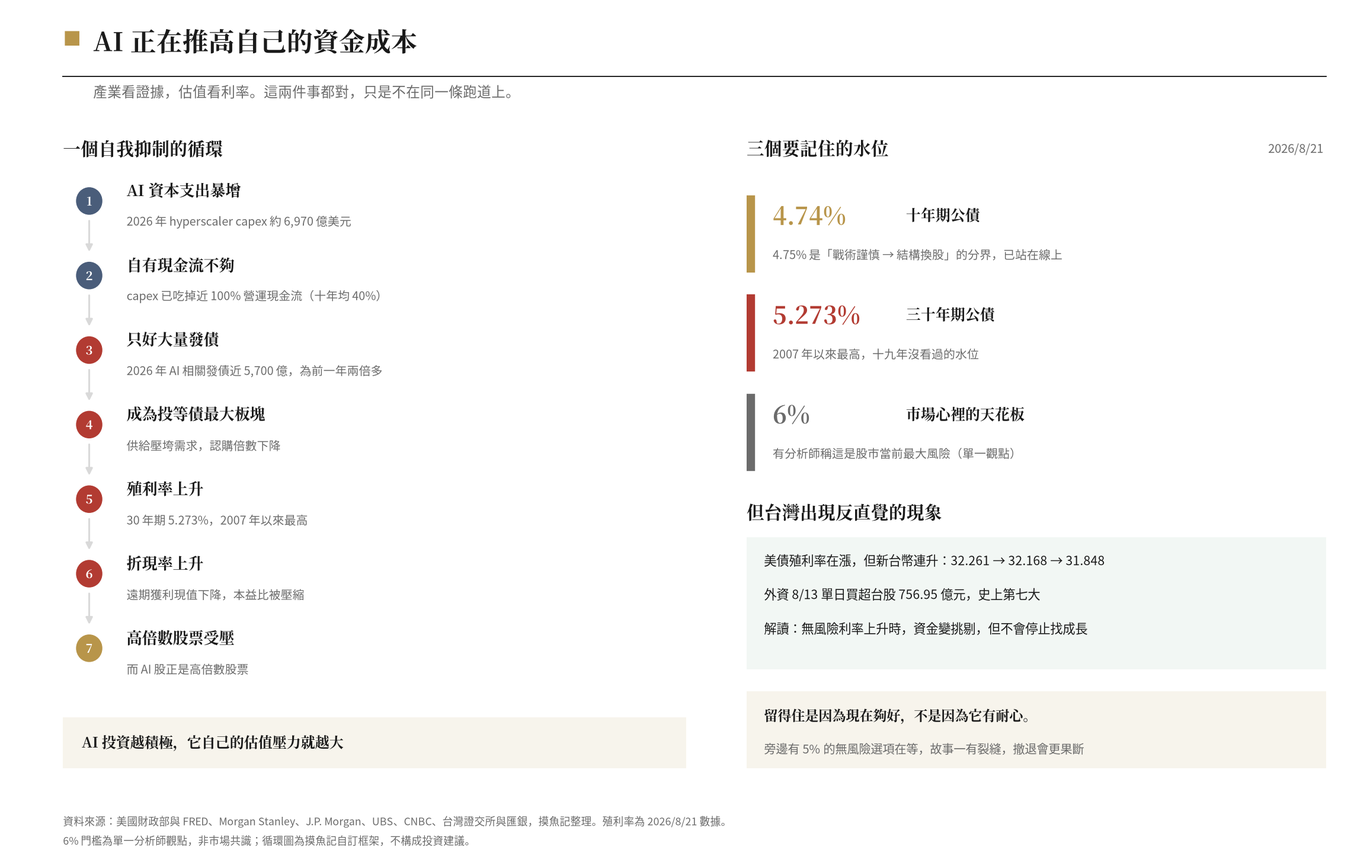
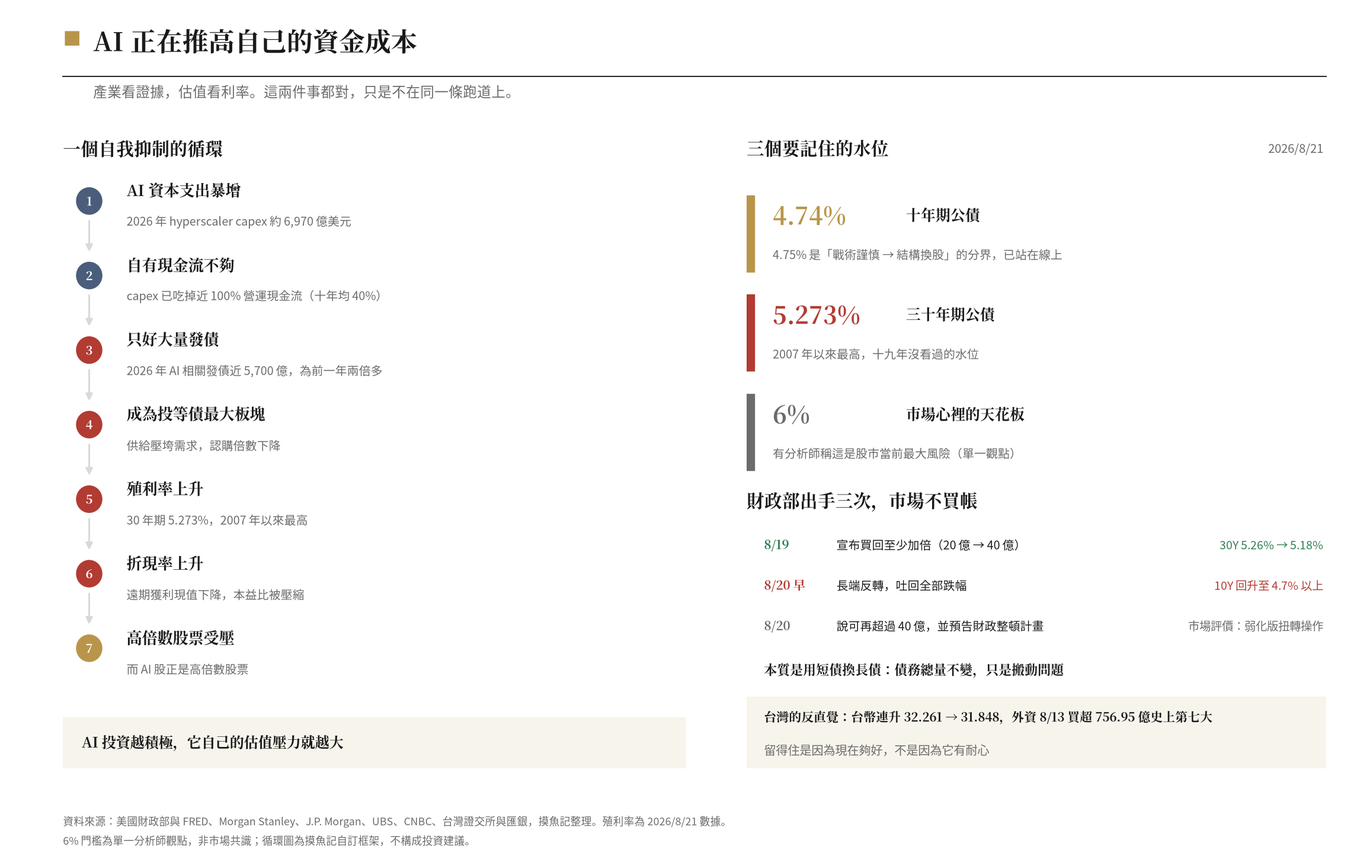
殖利率篇 v2：改用本週 PCE 與輝達財報當引子，新增財政部三次出手一節
依 Jake 指示重寫：
- 開場改用本週兩大事件（8/26 PCE 與輝達財報）當引子，並在第七節回收，
  把宏觀分析落到本週的實際判讀上（PCE 看它對長端的影響；輝達財報看
  capex 指引，因 capex 越積極發債壓力越大、回頭壓估值，好消息帶副作用）
- 新增第五節「財政部出手三次，市場不買帳三次」：
  8/19 宣布買回至少加倍（每次 20 億→至少 40 億、9/9-11/4）→ 30Y 5.26%→5.18%、
  10Y 4.68%→4.63%；8/20 早盤長端反轉吐回全部跌幅、10Y 回升逾 4.7%；
  8/20 Bessent 稱可再超過 40 億上限並預告財政整頓計畫（川普指派其與
  預算主任 Vought 負責，稱週末或下週初公布）
- 點出買回的本質：以發短債資金買回長債，債務總量不變，僅改變期限結構，
  即弱化版扭轉操作（分析師評價），是搬動問題不是解決問題
- 並給讀者判準：看政策有效與否不是看規模，是看有沒有減少債務總量
  或改善財政結構
- 圖同步更新：右欄下半改為財政部三次出手時間軸與市場反應

待 Jake 確認兩事（已列入製作註記）：
1. 輝達財報與 PCE 查證為 8/26，與 Jake 所述「明天」不符
2. 「昨晚財政部又宣布購債」查證最新僅至 8/20，若有新宣布需補為第四次出手

Claude-Session: https://claude.ai/code/session_017fQSiLgrET3Kg63C49rJdr

diff --git a/personal/drafts/gen_YIELD_chart.py b/personal/drafts/gen_YIELD_chart.py
@@ -94,24 +94,28 @@ for i, (num, name, c, desc) in enumerate(levels):
              fontproperties=serif_b, va='center')
     axR.text(0.45, top - 0.90, desc, color=GREY, fontsize=8.4, va='center')
 
-axR.text(0, 4.02, "但台灣出現反直覺的現象", color=INK,
+axR.text(0, 4.18, "財政部出手三次，市場不買帳", color=INK,
          fontsize=12.5, fontproperties=serif_b, va='center')
 
-axR.add_patch(mpatches.Rectangle((0, 1.62), 10, 2.02,
-                                 facecolor=GREEN, alpha=0.06, zorder=0))
-tw_lines = [
-    "美債殖利率在漲，但新台幣連升：32.261 → 32.168 → 31.848",
-    "外資 8/13 單日買超台股 756.95 億元，史上第七大",
-    "解讀：無風險利率上升時，資金變挑剔，但不會停止找成長",
+moves = [
+    ("8/19", "宣布買回至少加倍（20 億 → 40 億）", "30Y 5.26% → 5.18%", GREEN),
+    ("8/20 早", "長端反轉，吐回全部跌幅", "10Y 回升至 4.7% 以上", RED),
+    ("8/20", "說可再超過 40 億，並預告財政整頓計畫", "市場評價：弱化版扭轉操作", GREY),
 ]
-for j, ln in enumerate(tw_lines):
-    axR.text(0.3, 3.28 - j * 0.52, ln, color=INK, fontsize=9, va='center')
+for j, (d, act, react, c) in enumerate(moves):
+    y = 3.52 - j * 0.62
+    axR.text(0.3, y, d, color=c, fontsize=8.8, fontproperties=serif_b, va='center')
+    axR.text(1.55, y, act, color=INK, fontsize=8.4, va='center')
+    axR.text(9.95, y, react, color=c, fontsize=8.2, va='center', ha='right')
 
-axR.add_patch(mpatches.Rectangle((0, 0.10), 10, 1.18,
+axR.text(0.3, 1.60, "本質是用短債換長債：債務總量不變，只是搬動問題",
+         color=INK, fontsize=9.2, fontproperties=serif_b, va='center')
+
+axR.add_patch(mpatches.Rectangle((0, 0.10), 10, 1.10,
                                  facecolor=GOLD, alpha=0.10, zorder=0))
-axR.text(0.3, 0.90, "留得住是因為現在夠好，不是因為它有耐心。",
-         color=INK, fontsize=9.8, fontproperties=serif_b, va='center')
-axR.text(0.3, 0.40, "旁邊有 5% 的無風險選項在等，故事一有裂縫，撤退會更果斷",
+axR.text(0.3, 0.88, "台灣的反直覺：台幣連升 32.261 → 31.848，外資 8/13 買超 756.95 億史上第七大",
+         color=INK, fontsize=8.8, fontproperties=serif_b, va='center')
+axR.text(0.3, 0.38, "留得住是因為現在夠好，不是因為它有耐心",
          color=GREY, fontsize=8.6, va='center')
 
 fig.text(0.046, 0.062,

diff --git a/personal/drafts/2026-YIELD_treasury-anchor-draft.md b/personal/drafts/2026-YIELD_treasury-anchor-draft.md
@@ -1,10 +1,16 @@
-# 為什麼需求這麼強，股票還是一直被殺？答案在債市
+# 這週最重要的數字，不是輝達的財報
 
-> 摸魚記｜宏觀基礎篇（建議 2026-08-24 晚或 8/25 發佈）
-> 主軸：殖利率是什麼、為什麼現在重要、AI 發債的自我抑制循環、台股台幣連動
-> 圖：建議 `YIELD-chart-loop.png`（左：AI 發債的自我抑制循環／右：關鍵水位與台股台幣連動）
+> 摸魚記｜宏觀基礎篇 v2（建議 2026-08-24 晚或 8/25 發佈，需趕在 8/26 PCE 與輝達財報前）
+> v2 更新：開場改用本週兩大事件當引子；新增第六節「財政部出手三次，市場不買帳」
+> 圖：`YIELD-chart-loop.png`（左：AI 發債的自我抑制循環／右：關鍵水位與台股台幣連動）
 
 ---
+
+這週很精彩。
+
+週三晚上先是七月的 PCE 物價指數，那是聯準會最看重的通膨指標；同一天美股盤後，輝達要公布財報。一個決定利率的方向，一個決定 AI 這條敘事還撐不撐得住。
+
+大家應該都在等這兩個。但我想先講一件更底層、而且已經在發生的事，因為它會決定你怎麼解讀那兩份數據。
 
 上週有讀者問了一個很好的問題：「合約價創新高、財報營收年增三位數、缺貨缺到大廠去遊說政府，這些不是都很好嗎？為什麼股票還是一直被殺？」
 
@@ -12,13 +18,11 @@
 
 〔訂閱框放這裡〕
 
-上上週我在開場提過一次公債被拋售、殖利率往上走的事，當時只用括號簡單帶過。這篇想把它講完整，因為這件事已經大到不能只當背景音了。
-
-也歡迎任何 feedback 討論。
+上上週我在開場提過一次公債被拋售、殖利率往上走，當時只用括號簡單帶過。這篇想把它講完整，因為這件事已經大到不能只當背景音了。也歡迎任何 feedback 討論。
 
 ## 一、先用最白話的方式講殖利率
 
-如果你已經懂可以直接跳到第二節。
+已經懂的可以直接跳到第二節。
 
 **債券的價格和殖利率是反向的。** 這是最容易搞混的地方，但道理很簡單：一張債券每年固定配你 5 元，如果你用 100 元買，報酬率就是 5%；如果沒人要，價格跌到 80 元，那還是配你 5 元，報酬率就變成 6.25%。**價格跌，殖利率就升。**
 
@@ -34,39 +38,33 @@
 
 而且這件事對不同股票的傷害不一樣。**獲利在越遠的未來，被折現得越兇。** 一家今年就賺錢的公司，跟一家要 2030 年才賺大錢的公司，同樣的折現率上升，後者的估值會掉得多很多。
 
-所以每次殖利率跳升，你會發現最先倒下的永遠是高估值成長股。而 AI 和記憶體這一輪，剛好就是估值被拉得最滿的那一群。
+所以每次殖利率跳升，最先倒下的永遠是高估值成長股。而 AI 和記憶體這一輪，剛好就是估值被拉得最滿的那一群。
 
-## 二、現在的水位，以及三個要記住的數字
+## 二、現在的水位，三個要記住的數字
 
 截至八月二十一日：
 
-**十年期公債殖利率 4.74%。** 分析圈普遍把 **4.75%** 當成一個分界線，過了它，資金的行為會從「戰術性謹慎」變成「結構性換股」。也就是說，不是短線調節，是真的換一批東西買。
+**十年期公債殖利率 4.74%。** 分析圈普遍把 **4.75%** 當成一個分界線，過了它，資金的行為會從「戰術性謹慎」變成「結構性換股」。不是短線調節，是真的換一批東西買。
 
-**三十年期公債殖利率 5.273%。** 這是 **2007 年以來的最高點**，比金融海嘯還早，等於十九年沒看過的水位。
+**三十年期公債殖利率 5.273%。** 這是 **2007 年以來的最高點**，比金融海嘯還早，等於十九年沒看過的水位。它在八月十七日還一度摸到 5.31%。
 
 **還有一個門檻是 6%。** 有分析師直接說，六趴的殖利率會是股市目前最大的風險。這是單一觀點不是共識，但它標出了市場心裡的天花板在哪。
 
-一句話總結這一節：**十年期已經站在門檻上，三十年期已經跨過去了。**
+一句話：**十年期已經站在門檻上，三十年期已經跨過去了。**
 
 ## 三、為什麼漲？四個原因，第一個跟我們的持股直接相關
 
-**第一，AI 公司在瘋狂發債。** 這條後面單獨講，因為它是這篇的重點。
+**第一，AI 公司在瘋狂發債。** 這條下一節單獨講。
 
 **第二，聯邦赤字。** 政府要借的錢越來越多，債券供給越來越大。有外電的標題下得很傳神：**AI 支出與赤字正面相撞。**
 
-**第三，通膨疑慮還沒解除。** 美伊在波斯灣封鎖油輪推升能源價格，通膨會不會失錨，市場心裡沒底。
+**第三，通膨疑慮還沒解除。** 美伊在波斯灣封鎖油輪推升能源價格，通膨會不會失錨，市場心裡沒底。這也是為什麼週三的 PCE 值得看。
 
 **第四，聯準會主席 Warsh 暗示，升息可能不是他對抗通膨的首選工具。** 這句話的意思是：如果通膨真的回來，Fed 不一定會用最直接的方式壓它。市場聽懂之後，對長期通膨的擔憂就反映到長天期殖利率上。
-
-還有一件事值得記住：財政部已經出手過了。它宣布從九月九日到十一月四日，至少加倍公債買回的規模。但市場只反應了一天，隔天殖利率又走高。
-
-**政策工具被用出來、而且沒用，這件事本身就是訊號。**
 
 ## 四、核心：AI 正在推高自己的資金成本
 
 這是我認為最少人講、但最該講的一段。
-
-先看幾個數字。
 
 摩根大通估 2026 年 hyperscaler 的資本支出會達到 **6,970 億美元**。而 UBS 的估計是，這些資本支出**已經吃掉它們接近百分之百的營運現金流**，對照過去十年的平均只有 40%。
 
@@ -88,7 +86,29 @@
 
 **因為需求的資金來源本身，正在推高所有人的資金成本。** 這件事跟合約價漲不漲、缺不缺貨完全無關，它是另一條賽道上的事，但它會決定市場願意用幾倍本益比買這些公司。
 
-## 五、那台灣呢？一個反直覺的現象
+## 五、財政部出手三次，市場不買帳三次
+
+上週的重頭戲其實不在股市，在債市。這段值得仔細看，因為它示範了一件事：**當市場不相信你的時候，工具本身沒有用。**
+
+**第一次，八月十九日。** 財政部宣布把長天期公債的買回規模「至少加倍」，從每次上限 20 億美元提高到至少 40 億，九月九日到十一月四日生效。
+
+市場立刻反應：三十年期殖利率從 5.26% 急跌到 5.18%，十年期從 4.68% 掉到 4.63%。看起來有效。
+
+**第二次，八月二十日早上，效果就沒了。** 十年期又爬回 4.7% 以上，把前一天的跌幅整個吐掉。財政部長 Bessent 當天出面說，買回規模可以超過昨天宣布的 40 億上限，但沒有給具體數字，只說看市場狀況。
+
+**第三次，同一天他還預告了一個新的財政整頓計畫**，說大概週末或下週初會公布，總統已經指派他和預算主任一起負責。
+
+三次出手，殖利率最後還是回到接近原點。
+
+**為什麼沒用？** 因為買回這件事的本質，是「**用短債換長債**」。財政部拿錢去買回長天期債券，那筆錢從哪來？發短天期債券。所以整體債務並沒有變少，只是把還款的時間往前挪，壓低長端的殖利率。
+
+這在教科書上叫扭轉操作的變體。有分析師講得很直白：**稍微大一點的買回計畫，等於一個弱化版的扭轉操作，本身不會有持久的影響。**
+
+換句話說，**這不是在解決問題，是在搬動問題。** 而市場只花一天就看穿了。
+
+這一節想說的是：如果你在看接下來的政策消息，判斷有沒有效的標準不是「規模多大」，而是「**它有沒有減少債務總量或改善財政結構**」。前者是止痛藥，後者才是治療。Bessent 預告的那個財政整頓計畫，如果內容是後者，那才值得認真看待。
+
+## 六、那台灣呢？一個反直覺的現象
 
 照理說，美國無風險利率上升，資金應該從新興市場往回流。但八月的台灣不是這樣。
 
@@ -100,35 +120,33 @@
 
 但同一件事要反過來讀一次，這是風險：**機會成本變高之後，資金離開的速度也會更快。** 以前成長故事鬆動，資金可能還會觀望；現在旁邊有 5% 的無風險選項在等，一旦故事出現裂縫，撤退會比過去果斷。
 
-**留得住是因為現在夠好，不是因為它有耐心。** 這是我認為台股投資人現在最該理解的一句話。
+**留得住是因為現在夠好，不是因為它有耐心。**
 
-## 六、所以，這件事該怎麼放進判斷裡
+## 七、所以，週三那兩份數據該怎麼看
 
-**第一，殖利率不會進我的 indicator 清單，但會影響我的部位大小。**
+繞了一圈，回到開頭。
 
-我盯的離場訊號一直是那幾條：DRAM 合約價轉跌、雲端業者資本支出指引下修、HBM 排擠效應鬆動。殖利率不在裡面，因為**它不改變需求，它改變的是價格**。合約價不會因為三十年期公債漲到 5.3% 就下跌。
+**PCE 要看的不是數字本身，是它對長天期殖利率的影響。** 如果通膨繼續降溫，長端的壓力會鬆一點，那對高倍數股票是實質的解壓；如果又燙起來，那三十年期往 6% 走的劇本就要認真對待了。
 
-但它會改變我願意用多大的部位去承受波動。同樣看好一個產業，在無風險利率 3% 和 5% 的環境裡，合理的部位大小是不一樣的。
+**輝達的財報要看的也不只是營收。** 我會特別看資本支出的說法，還有客戶的融資結構。因為照上面那個循環，**capex 指引越積極，發債壓力越大，回頭壓在估值上的力道也越大**。這是這一輪很矛盾的地方：好消息本身帶著副作用。
 
-**第二，它解釋了為什麼「好消息不漲」會變成常態。**
+至於我自己怎麼處理這件事，三句話：
 
-如果你發現最近利多出來股價沒反應、利空出來卻跌得很兇，那不一定是你的產業判斷錯了，可能只是**折現率在幫市場打折**。理解這一點，至少可以讓你不要在錯的地方懷疑自己的論點。
+**第一，殖利率不會進我的 indicator 清單，但會影響我的部位大小。** 我盯的離場訊號一直是那幾條：DRAM 合約價轉跌、雲端資本支出指引下修、HBM 排擠效應鬆動。殖利率不在裡面，因為**它不改變需求，它改變的是價格**。合約價不會因為三十年期漲到 5.3% 就下跌。但同樣看好一個產業，在無風險利率 3% 和 5% 的環境裡，合理的部位大小是不一樣的。
 
-**第三，真正要盯的是那個循環會不會鬆。**
+**第二，它解釋了為什麼「好消息不漲」會變成常態。** 如果你發現最近利多出來股價沒反應、利空出來卻跌得很兇，那不一定是你的產業判斷錯了，可能只是**折現率在幫市場打折**。理解這一點，至少可以讓你不要在錯的地方懷疑自己的論點。
 
-有兩個方向：一是雲端業者的資本支出如果開始收斂，發債壓力會下降，殖利率的上行壓力也會跟著減；二是如果通膨真的降下來，長天期殖利率自然會回落。**這兩件事任一發生，對高估值成長股都是實質的解壓。**
+**第三，真正要盯的是那個循環會不會鬆。** 兩個方向：雲端資本支出如果開始收斂，發債壓力會下降；或者通膨真的降下來，長端自然回落。**這兩件事任一發生，對高估值成長股都是實質的解壓。** 反過來，如果十年期站穩 5%、三十年期往 6% 走，那就不只是估值打折，而是整個資產配置的邏輯要重算。
 
-反過來，如果十年期站穩 5%、三十年期往 6% 走，那就不只是估值打折的問題，而是整個資產配置的邏輯要重算。
+## 八、最後
 
-## 七、最後
-
-這幾週我們花了很多篇幅在講合約價、在講長約、在講誰站在哪一層瓶頸上。那些都還算數，需求的證據到現在也沒有翻轉。
+這幾週我們花了很多篇幅在講合約價、長約、誰站在哪一層瓶頸上。那些都還算數，需求的證據到現在也沒有翻轉。
 
 但這篇想補上的是另一半：**產業的好壞決定一家公司賺多少，資金的價格決定市場願意用幾倍去買它。** 兩件事都對，只是它們不在同一條跑道上。
 
 殖利率就是那條你平常看不到、但一直在替所有資產定價的線。它現在正在往上移，而且移到了十九年沒去過的地方。
 
-所以我們就繼續且戰且走，然後多記一件事：**產業看證據，估值看利率。**
+所以週三那兩份數據出來的時候，我們可以多問一句：它讓那條線往上，還是往下？
 
 祝大家都上班摸魚炒股賺大錢。
 
@@ -141,61 +159,54 @@
 
 ## 〔草稿製作註記，發佈前刪除〕
 
-### 發佈前必補與確認
+### ⚠ 發佈前必須確認的兩件事
 
-1. **今日（8/24）台股與美股數據**：本稿最新數據為 8/21，若要在開場或第五節補一句本週位置請提供。
-2. **殖利率最新值**：本稿為 8/21 收盤（10Y 4.74%、30Y 5.273%），發文前建議確認是否已明顯變動。
-3. **6% 門檻為單一分析師觀點**，正文已明寫「這是單一觀點不是共識」。
-4. 部位揭露依規則 38 處理：本稿未提個股，僅談部位大小的原則。
-5. 刪本段製作註記，訂閱框放開場對話後。
+1. **輝達財報與 PCE 的日期**：本稿依查證寫為**兩者皆在 8/26（週三）**。PCE 為美東 8/26 08:30（台北 8/26 晚間），輝達為美股 8/26 盤後（台北 8/27 凌晨）。**Jake 原訊息說「明天有 NVDA 財報」，若以 8/24 發文則為 8/25，與查證結果不符，請以官方 IR 為準後再定稿。** 若日期需改，第一段與第七節標題都要同步調整。
+2. **「昨晚財政部又宣布購債」的出處**：本稿查證到的最新時間點為 **8/20 Bessent 表示買回可超過 40 億上限、並預告財政整頓計畫（川普指派他與預算主任 Vought 負責，稱週末或下週初公布）**。**8/23–24 若另有新宣布，請提供出處，我再補入第五節作為「第四次出手」。**
+
+### 其他發佈前補充
+
+3. **殖利率最新值**：本稿為 8/21（10Y 4.74%、30Y 5.273%），發文前建議確認是否已明顯變動。
+4. **今日（8/24）台股收盤**：本稿未使用，要補一句本週位置請提供。
+5. 6% 門檻為單一分析師觀點，正文已明寫。
+6. 部位揭露依規則 38 處理：本稿未提個股，僅談部位大小原則。
+7. 刪本段製作註記，訂閱框放開場對話後。
+
+### v2 修改摘要
+
+- 開場改用本週兩大事件（PCE、輝達財報）當引子，並在第七節回收，形成前後呼應
+- **新增第五節「財政部出手三次，市場不買帳三次」**，含三次時間軸、買回的本質（用短債換長債＝弱化版扭轉操作）、以及判斷政策有效與否的標準（有沒有減少債務總量或改善財政結構）
+- 原第六節（觀點與操作）改為第七節，並與 PCE／輝達財報綁定，讓宏觀分析落到本週的實際判讀上
 
 ### 數據來源對帳
 
-**殖利率水位（2026/8/21）**
-- 10 年期 4.74%；30 年期 5.273%，為 2007 年以來最高（約 19 年新高）
-- 4.75%（10Y）被視為「戰術性謹慎轉為結構性輪動」門檻；30Y 5.28% 威脅高倍數科技股估值
-- 有分析師稱 6% 殖利率是股市當前最大風險（單一觀點）
+**殖利率（2026/8/21）**：10Y 4.74%；30Y 5.273%，2007 年以來最高（8/17 曾摸 5.31%）。4.75%（10Y）為「戰術謹慎→結構換股」門檻；6% 為單一分析師觀點
 
-**上升原因**
-- AI 公司發債與聯邦赤字支出上升，長天期殖利率自 7 月起飆升（標題：AI 支出與赤字相撞）
-- 美伊波斯灣封鎖油輪推升能源價格，加劇通膨失錨疑慮
-- Fed 主席 Warsh 暗示升息可能不是他對抗通膨的首選工具
-- 財政部宣布 9/9–11/4 至少加倍公債買回，但交易迅速反轉、殖利率隔日再走高
+**財政部三次出手**
+- 8/19：宣布長天期買回規模至少加倍，每次上限自 20 億美元提高至至少 40 億，涵蓋 10Y–30Y，9/9 至 11/4 生效。市場反應：30Y 自 5.26% 跌至 5.18%、10Y 自 4.68% 跌至 4.63%
+- 8/20 早盤：長端反轉，10Y 回升至 4.7% 以上，吐回前日跌幅
+- 8/20：Bessent 表示買回可超過 40 億上限，未給具體數字；並預告財政整頓計畫，稱週末或下週初公布，川普指派他與預算主任 Vought 負責
+- 市場評價：分析師稱「稍大的買回等於弱化版扭轉操作，本身不會有持久影響」
+- 買回本質：以發行短債資金買回長債，債務總量不變，僅改變期限結構
 
-**AI 發債規模**
-- 2026 年全球 AI 相關發債預估近 5,700 億美元，為 2025 年兩倍多（摩根士丹利 2026/6）
-- 五大 hyperscaler：2025 年發行 1,210 億美元公司債，2020–2024 年均僅 280 億，2026 年至年中已 1,590 億
-- AI 相關債務已是投資等級市場最大板塊，其供給影響基準利差；hyperscaler 債券認購倍數下降
-- 摩根大通估 2026 hyperscaler capex 達 6,970 億美元
-- UBS 估 hyperscaler capex 今年消耗接近 100% 營運現金流，十年平均為 40%
-- 摩根士丹利估至 2028 年前資料中心 capex 與自有現金流間有 1.5 兆美元融資缺口
+**AI 發債**：2026 全球 AI 相關發債預估近 5,700 億美元（前一年兩倍多，摩根士丹利 2026/6）；五大 hyperscaler 2025 發行 1,210 億、2020–2024 年均 280 億、2026 至年中已 1,590 億；AI 債為投資等級市場最大板塊，認購倍數下降；J.P. Morgan 估 2026 hyperscaler capex 6,970 億；UBS 估 capex 消耗近 100% 營運現金流（十年均 40%）；Morgan Stanley 估至 2028 年有 1.5 兆美元融資缺口
 
-**折現率機制**
-- 成長股估值依賴未來現金流，折現率上升使遠期獲利現值大幅下降，壓縮本益比
-- 科技股受害最深；借貸成本上升同時墊高 hyperscaler capex 融資成本
+**上升原因**：AI 發債與聯邦赤字（外電標題「AI 支出與赤字相撞」）、美伊封鎖油輪推升能源價格、Fed 主席 Warsh 暗示升息非對抗通膨首選工具
 
-**台幣與外資**
-- 8/6 收 32.261 元（升 5.4 分，逾半個月新高）
-- 8/13 收 32.168 元（逾一個月高點）；外資單日買超台股 756.95 億元，史上第七大
-- 8/21（週五）收 31.848 元，升 7.7 分，連三升；外資買超上市股 28.3 億元
-- 7 月 CPI 年增 3.4% 符合預期，冷卻九月升息預期，支撐美台股市
+**折現率機制**：成長股估值依賴未來現金流，折現率上升使遠期獲利現值大幅下降、壓縮本益比；科技股受害最深；借貸成本上升同時墊高 hyperscaler capex 融資成本
+
+**台幣與外資**：8/6 收 32.261（升 5.4 分）、8/13 收 32.168、8/21 收 31.848（升 7.7 分，連三升）；外資 8/13 單日買超台股 756.95 億元，史上第七大
+
+**本週事件**：PCE（7 月）8/26 美東 08:30；輝達財報 8/26 美股盤後
 
 ### 主標候選（依推薦排序）
 
-1. `為什麼需求這麼強，股票還是一直被殺？答案在債市`（現用，直接回答讀者困惑）
-2. `AI 正在推高自己的資金成本`（最反直覺，一句話講完核心）
-3. `無風險的錢都能賺 5%，那你憑什麼買 60 倍本益比？`（最口語）
-4. `30 年期殖利率創 19 年新高，這對你的持股是什麼意思`（最實用）
-5. `所有資產的定價錨，正在往上移`（最精準但偏冷）
+1. `這週最重要的數字，不是輝達的財報`（現用，最有懸念且呼應本週節奏）
+2. `為什麼需求這麼強，股票還是一直被殺？答案在債市`
+3. `AI 正在推高自己的資金成本`（最反直覺）
+4. `財政部出手三次，市場不買帳三次`（從政策失效切入）
+5. `無風險的錢都能賺 5%，那你憑什麼買 60 倍本益比？`（最口語）
 
-### 與前幾篇的分工
+### 圖表
 
-- 8/7 瓶頸分層、8/11 出場紀律、8/18 中國記憶體與 NBM：**皆為產業層**
-- **本篇為宏觀層**，補上「產業看證據，估值看利率」的另一半。四層瓶頸不重述，僅在第六節帶一句離場訊號清單
-
-### 圖表建議
-
-`YIELD-chart-loop.png`
-- 左：AI 發債的自我抑制循環（capex 6,970 億 → 現金流用盡 → 發債 5,700 億 → 成為 IG 最大板塊 → 殖利率上升 → 折現率上升 → 高倍數股受壓 → 回到起點），用箭頭串成環形或直線
-- 右：三個關鍵水位（10Y 4.74%／30Y 5.273%／6% 門檻）＋台幣與外資的反直覺現象（台幣 32.261→31.848 連升、外資 8/13 買超 756.95 億史上第七大）
-- 圖下小字：6% 為單一分析師觀點；殖利率為 2026/8/21 數據
+`YIELD-chart-loop.png` 已產生（左：自我抑制循環七步；右：三個水位＋台股台幣反直覺現象）。**v2 新增的第五節（財政部三次出手）未入圖**，若要加可考慮在右欄下方增列三次時間軸與殖利率反應，或另做一張。
